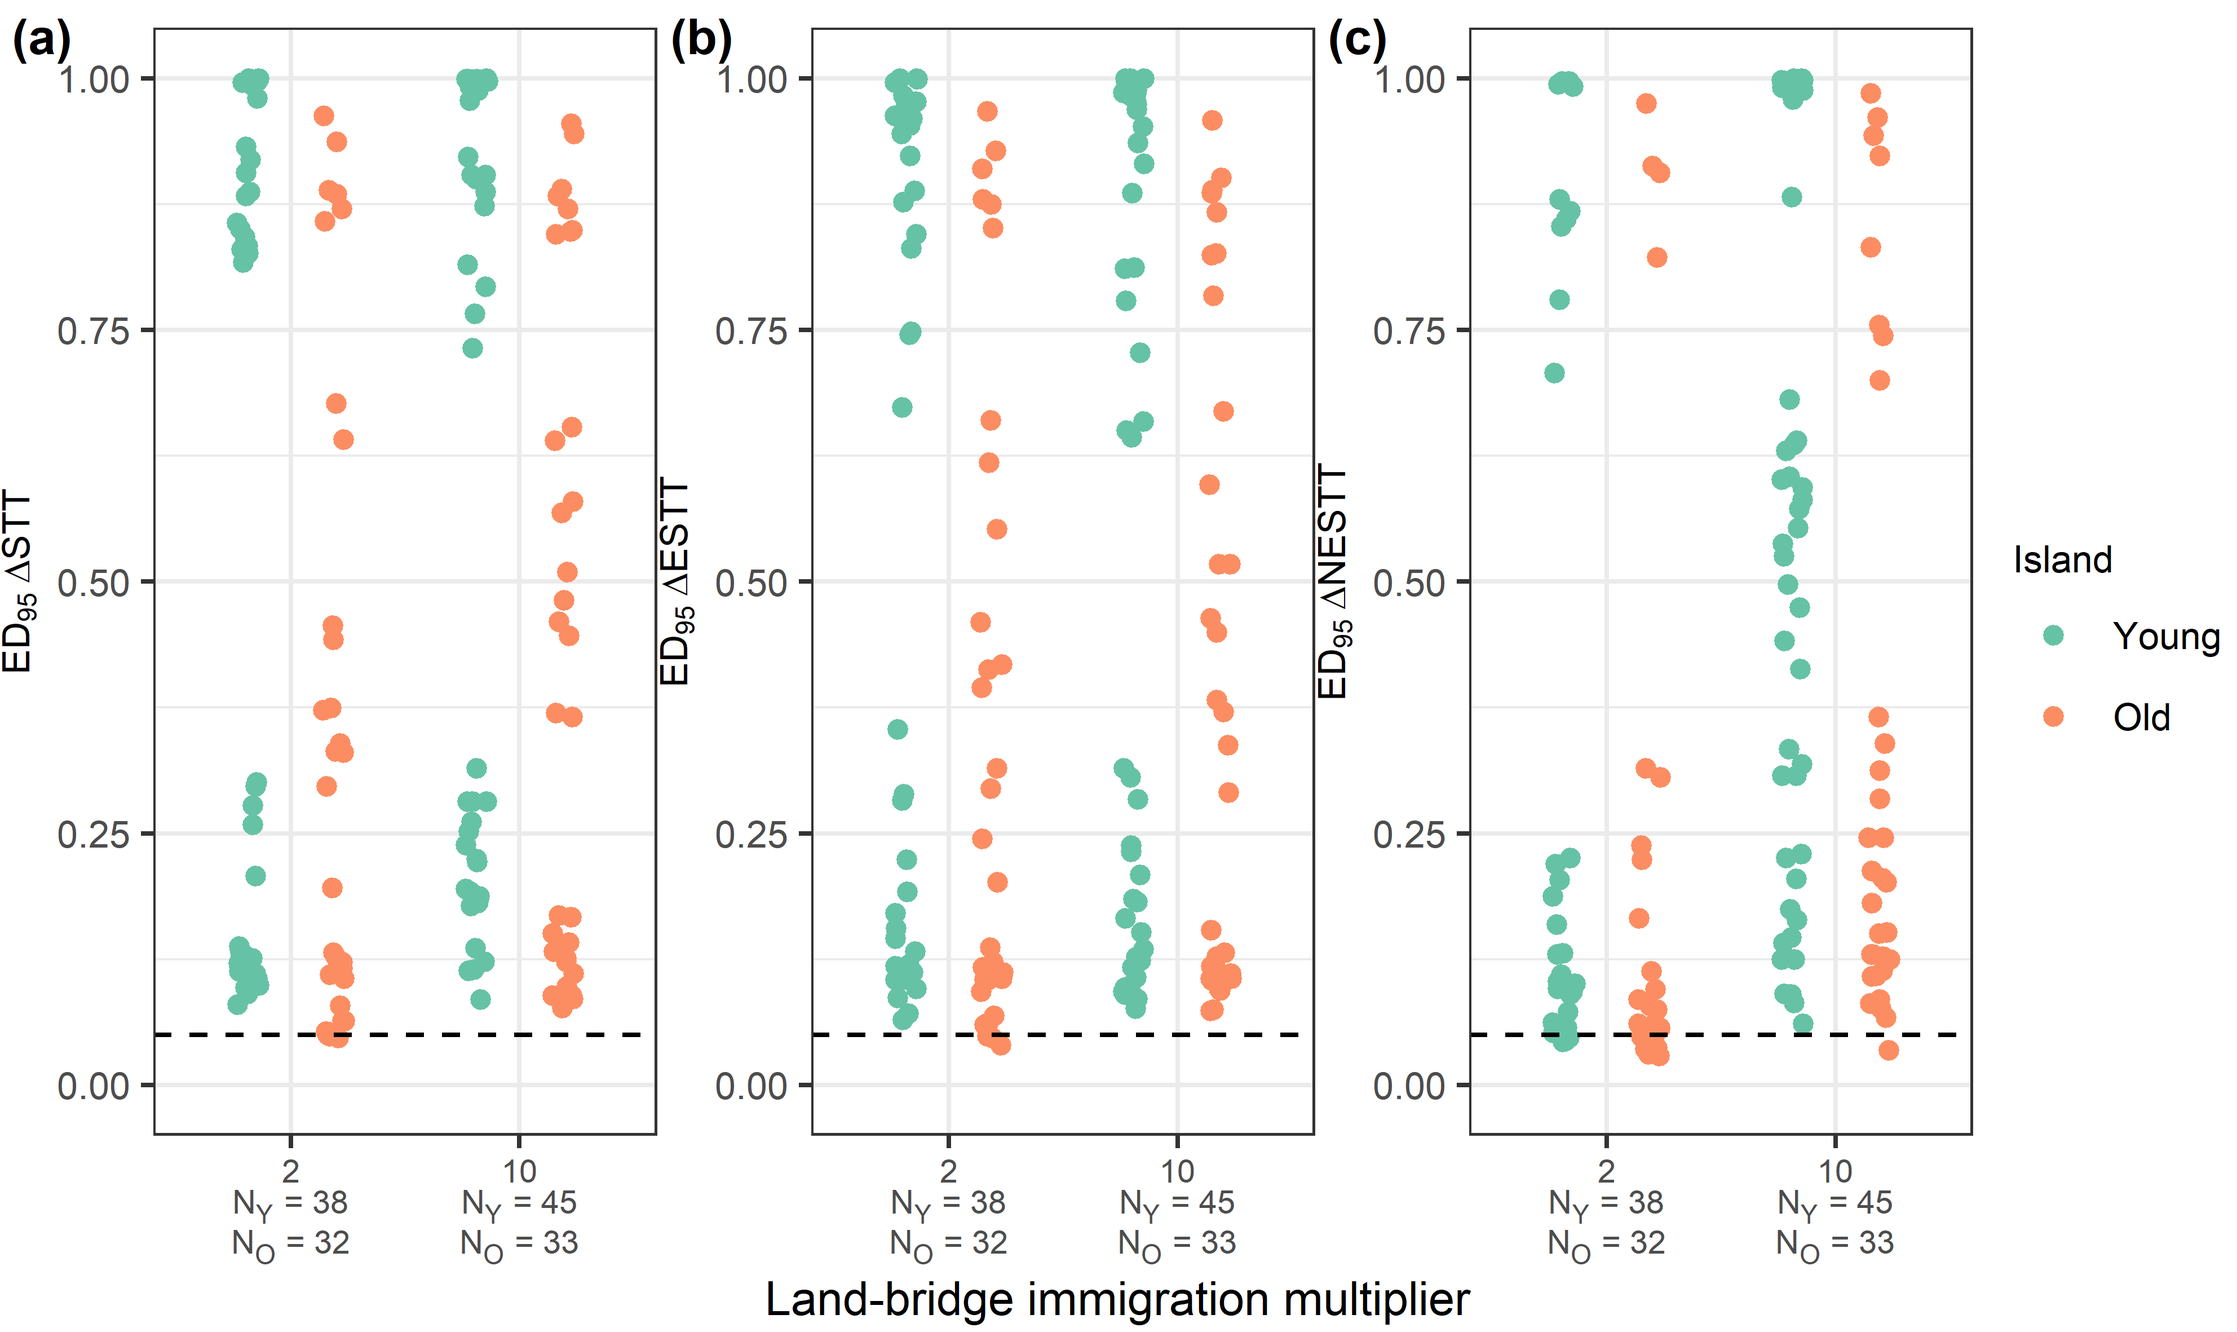
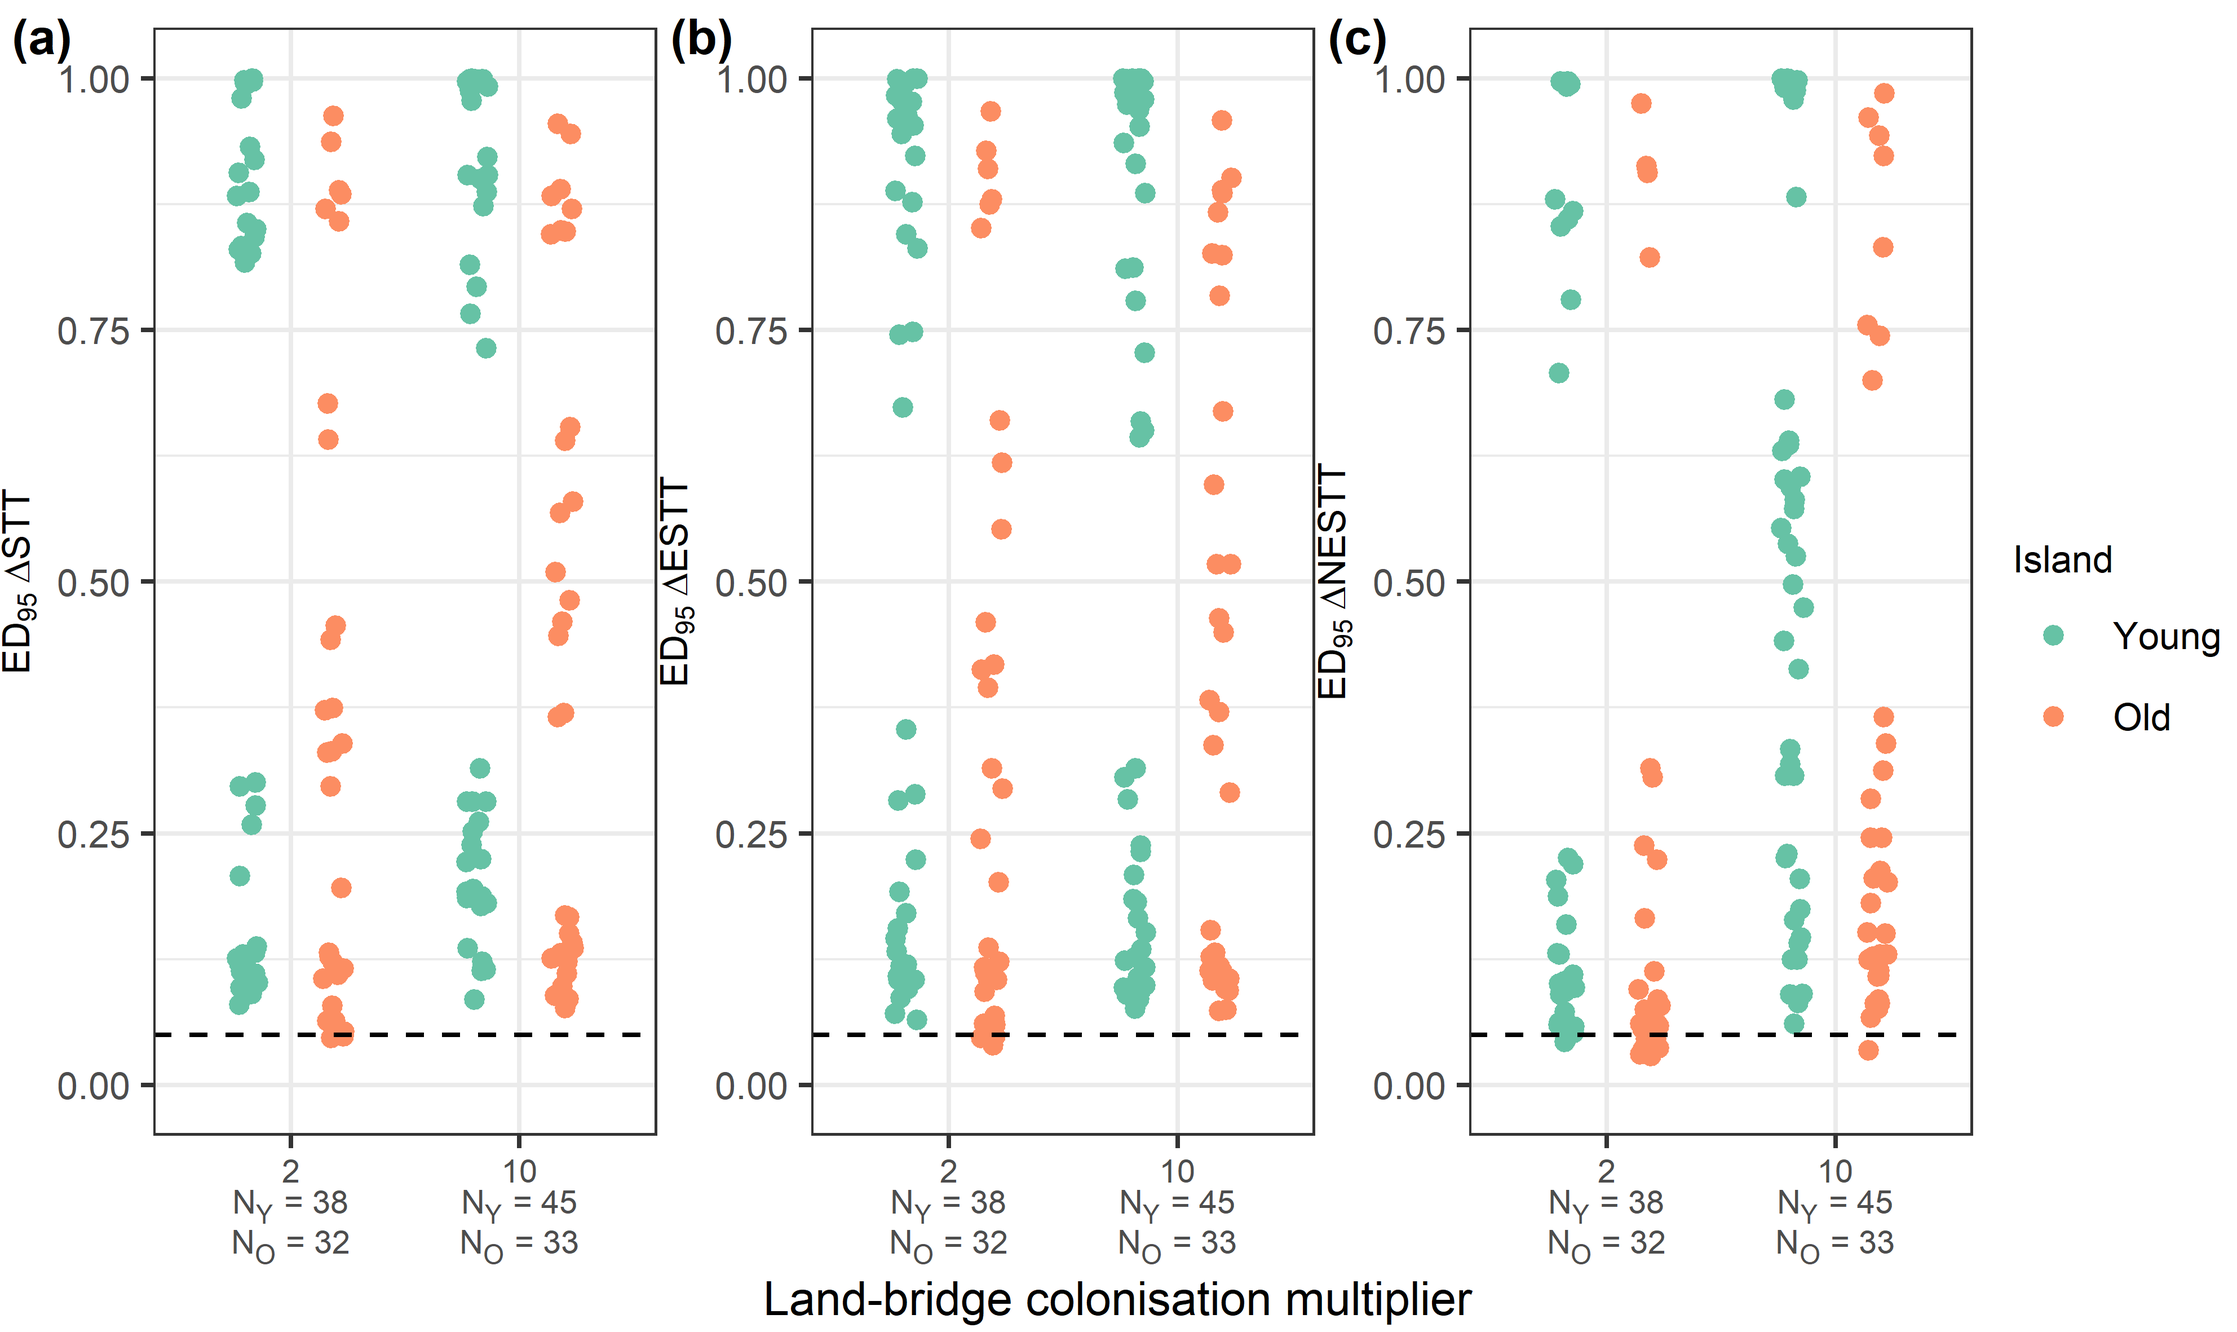
immigration multiplier -> colonisation multiplier

diff --git a/main.tex b/main.tex
@@ -62,7 +62,7 @@ Testing the effect of relevant island characteristics, such as area, on island d
 
 Robustness analyses test the performance of a model when its assumptions are violated. These analyses provide insight into the generality of models by identifying when increased model complexity is unnecessary by testing model performance given departures from the model’s assumptions \citep{weisberg_robustness_2006, grimm_robustness_2016}. In model comparison there is no true model that perfectly represents reality \citep{burnham_model_2004}. Therefore, finding simple models to explain complex dynamics can allow for inference in the presence of small sample sizes and reduce the risk of overfitting. In statistical modelling, it is possible to obtain reliable results when violating the assumptions of a model (e.g. t-test, \cite{boneau_effects_1960}). Testing inference robustness with simulations allows understanding of the type and magnitude of the violation, as long as the simulations are themselves without bias or applied in an unbiased fashion \citep{huelsenbeck_performance_1995, hartmann_sampling_2010}. Robustness analysis is methodologically similar to testing model adequacy, which investigates the absolute performance of a model \citep{bollback_bayesian_2002, pennell_model_2015}. \\
 
-Here, we test the robustness of inference with a single model – DAISIE – to several geodynamic scenarios in which empirical data may differ from the model’s assumptions. We build upon the framework of \citep{valente_effects_2014} to include ontogeny in the DAISIE simulations, and we simulate sea-level change, different types of island formation events (oceanic and continental), and transient land-bridge connection to the mainland. We then apply maximum likelihood estimation (MLE) of DAISIE across this spectrum of geodynamic scenarios. Thus, we investigate to what extent a simple model of island biogeography can produce reliable results when ignoring geodynamics. If the model is found not to be robust, new inference methods that explicitly address geodynamics should be developed.
+Here, we test the robustness of inference with a single model – DAISIE – to several geodynamic scenarios in which empirical data may differ from the model’s assumptions. We build upon the framework of \cite{valente_effects_2014} to include ontogeny in the DAISIE simulations, and we simulate sea-level change, different types of island formation events (oceanic and continental), and transient land-bridge connection to the mainland. We then apply the maximum likelihood estimation (MLE) of DAISIE across this spectrum of geodynamic scenarios. Thus, we investigate to what extent a simple model of island biogeography can produce reliable results when ignoring geodynamics. If the model is found not to be robust, new inference methods that explicitly address geodynamics should be developed.
 
 \clearpage
 
@@ -153,7 +153,7 @@ The robustness pipeline (Fig. \ref{fig:pipeline}) was run until 1,000 replicates
 
 \subsection*{Geodynamic oceanic islands}
 
-Oceanic islands with ontogeny, sea-level fluctuations, or both cause minimal error when reconstructing total species, endemic species, and non-endemic species through time based on parameters inferred with the non-geodynamic DAISIE inference model, (Fig. \ref{fig:scenario} \& \ref{fig:oceanic_hyperparameters_spec_nltt}, Fig. \ref{fig:oceanic_hyperparameters_endemic_nltt} \& \ref{fig:oceanic_hyperparamters_nonendemic_nltt}). The error is controlled by the strength of the effect of island area on cladogenesis and extinction rates (Fig. \ref{fig:oceanic_hyperparameters_spec_nltt} \& Fig. \ref{fig:oceanic_hyperparameters_endemic_nltt} \& \ref{fig:oceanic_hyperparamters_nonendemic_nltt}). The number of species and island colonising clades at present are both remarkably well predicted (Fig. \ref{fig:scenario}f \& \ref{fig:scenario}g). In other words, DAISIE inference performs well when applied to oceanic islands with geodynamic area. Hyperparameters (\textit{x} and \textit{d}) controlling the effect size of area change determined the error made on $\Delta$STT and $\Delta$ESTT for oceanic ontogeny (without sea-level) with high values of \textit{d} (strong effect of area on cladogenesis) causing the largest error, especially for the old island (Fig. \ref{fig:oceanic_hyperparameters_spec_nltt}a, Fig. \ref{fig:oceanic_hyperparameters_endemic_nltt}a \& \ref{fig:oceanic_hyperparameters_endemic_nltt}c). For sea-level change on its own, the error in $\Delta$STT and $\Delta$ESTT was around the null expectation (0.05) for all hyperparameters for both island ages (Fig. \ref{fig:oceanic_hyperparameters_spec_nltt}b \& Fig. \ref{fig:oceanic_hyperparameters_endemic_nltt}b). In the case of ontogeny and sea-level operating together, inference with the non-geodynamic DAISIE model showed higher error in $\Delta$STT compared to $\Delta$ESTT and $\Delta$NESTT (Fig. \ref{fig:oceanic_hyperparameters_spec_nltt}). When reconstructing non-endemics through time, oceanic island ontogeny and sea-level fluctuations, separately, cause minimal error on DAISIE inference, which is not strongly affected when altering the effect of area on cladogenesis (\textit{d}) or extinction (\textit{x}) (Fig. \ref{fig:oceanic_hyperparamters_nonendemic_nltt}a \& \ref{fig:oceanic_hyperparamters_nonendemic_nltt}b). Ontogeny and sea-level operating together produce somewhat higher error in $\Delta$NESTT (Fig. \ref{fig:oceanic_hyperparamters_nonendemic_nltt}c). The $\Delta$STT, $\Delta$ESTT, and $\Delta$NSTT have equal error at both island gradients for sea-level (Fig. \ref{fig:oceanic_sea_level_gradient_nltt}) and ontogeny plus sea-level (Fig. \ref{fig:oceanic_gradient_ontogeny_sea_level_nltt}). \\
+Oceanic islands with ontogeny, sea-level fluctuations, or both cause minimal error when reconstructing total species, endemic species, and non-endemic species through time based on parameters inferred with the non-geodynamic DAISIE inference model, (Fig. \ref{fig:scenario} \& \ref{fig:oceanic_hyperparameters_spec_nltt}, Fig. \ref{fig:oceanic_hyperparameters_endemic_nltt} \& \ref{fig:oceanic_hyperparamters_nonendemic_nltt}). The error is controlled by the strength of the effect of island area on cladogenesis and extinction rates (Fig. \ref{fig:oceanic_hyperparameters_spec_nltt} \& Fig. \ref{fig:oceanic_hyperparameters_endemic_nltt} \& \ref{fig:oceanic_hyperparamters_nonendemic_nltt}). The number of species and island colonising clades at present are both remarkably well predicted (Fig. \ref{fig:scenario}g \& \ref{fig:scenario}i). In other words, DAISIE inference performs well when applied to oceanic islands with geodynamic area. Hyperparameters (\textit{x} and \textit{d}) controlling the effect size of area change determined the error made on $\Delta$STT and $\Delta$ESTT for oceanic ontogeny (without sea-level) with high values of \textit{d} (strong effect of area on cladogenesis) causing the largest error, especially for the old island (Fig. \ref{fig:oceanic_hyperparameters_spec_nltt}a, Fig. \ref{fig:oceanic_hyperparameters_endemic_nltt}a \& \ref{fig:oceanic_hyperparameters_endemic_nltt}c). For sea-level change on its own, the error in $\Delta$STT and $\Delta$ESTT was around the null expectation (0.05) for all hyperparameters for both island ages (Fig. \ref{fig:oceanic_hyperparameters_spec_nltt}b \& Fig. \ref{fig:oceanic_hyperparameters_endemic_nltt}b). In the case of ontogeny and sea-level operating together, inference with the non-geodynamic DAISIE model showed higher error in $\Delta$STT compared to $\Delta$ESTT and $\Delta$NESTT (Fig. \ref{fig:oceanic_hyperparameters_spec_nltt}). When reconstructing non-endemics through time, oceanic island ontogeny and sea-level fluctuations, separately, cause minimal error on DAISIE inference, which is not strongly affected when altering the effect of area on cladogenesis (\textit{d}) or extinction (\textit{x}) (Fig. \ref{fig:oceanic_hyperparamters_nonendemic_nltt}a \& \ref{fig:oceanic_hyperparamters_nonendemic_nltt}b). Ontogeny and sea-level operating together produce somewhat higher error in $\Delta$NESTT (Fig. \ref{fig:oceanic_hyperparamters_nonendemic_nltt}c). The $\Delta$STT, $\Delta$ESTT, and $\Delta$NSTT have equal error at both island gradients for sea-level (Fig. \ref{fig:oceanic_sea_level_gradient_nltt}) and ontogeny plus sea-level (Fig. \ref{fig:oceanic_gradient_ontogeny_sea_level_nltt}). \\
 
 The number of species and number of colonists at the present for all oceanic area-dependent scenarios showed negligible error, with all results clustering around the expected baseline error from the null prediction (i.e. no additional error, ED\textsubscript{95} $\approx$ 0.05) (Fig. \ref{fig:scenario}d \& \ref{fig:scenario}e). Changes in hyperparameter values (\textit{d} and \textit{x}) and island gradient (for the scenarios that include sea-level) did not considerably alter the error for the number of species and colonists (Fig. \ref{fig:oceanic_hyperparameters_num_spec}-\ref{fig:oceanic_gradient_ontogeny_sea_level_num_spec}).
 
@@ -197,7 +197,7 @@ For continental islands, when species are initially on the island, the present-d
 \begin{figure}
     \centering
     \includegraphics[width=\textwidth]{nonoceanic_lb_immigration multiplier_spec_nltt.png}
-    \caption{Strip charts showing the influence of different land-bridge immigration multipliers (i.e., the factor by which the colonisation rate increases when the land-bridge is present). Each point represents the ED\textsubscript{95} for a single parameter set. All plots have a dashed line at 0.05 which is the null expectation of the ED\textsubscript{95}. Metrics plotted are: (a) $\Delta$STT ED\textsubscript{95} statistic, (b) $\Delta$ESTT ED\textsubscript{95} statistic, and (c) $\Delta$NESTT ED\textsubscript{95} statistic. The sample size for each strip is shown for young islands (N\textsubscript{Y}) and old islands (N\textsubscript{O}).}
+    \caption{Strip charts showing the influence of different land-bridge colonisation multipliers (i.e., the factor by which the colonisation rate increases when the land-bridge is present). Each point represents the ED\textsubscript{95} for a single parameter set. All plots have a dashed line at 0.05 which is the null expectation of the ED\textsubscript{95}. Metrics plotted are: (a) $\Delta$STT ED\textsubscript{95} statistic, (b) $\Delta$ESTT ED\textsubscript{95} statistic, and (c) $\Delta$NESTT ED\textsubscript{95} statistic. The sample size for each strip is shown for young islands (N\textsubscript{Y}) and old islands (N\textsubscript{O}).}
     \label{fig:nonoceanic_lb_immigration multiplier_spec_nltt}
 \end{figure}
 

diff --git a/supmat.tex b/supmat.tex
@@ -171,7 +171,7 @@ Therefore, the relationship between surface area of the cone and the base of the
         \hline
         Carrying capacity & 0.001, 0.01, $\infty$ \\
         \hline
-        Immigration & 0.03363, 0.06726 \\
+        Colonisation & 0.03363, 0.06726 \\
         \hline
         Anagenesis & 0.0295, 0.059 \\
         \hline
@@ -208,7 +208,7 @@ Therefore, the relationship between surface area of the cone and the base of the
         \hline
         Carrying capacity & 0.001, 0.01, $\infty$ \\
         \hline
-        Immigration & 0.03363, 0.06726 \\
+        Colonisation & 0.03363, 0.06726 \\
         \hline
         Anagenesis & 0.0295, 0.059 \\
         \hline
@@ -245,7 +245,7 @@ Therefore, the relationship between surface area of the cone and the base of the
         \hline
         Carrying capacity & 0.001, 0.01, $\infty$ \\
         \hline
-        Immigration & 0.03363, 0.06726 \\
+        Colonisation & 0.03363, 0.06726 \\
         \hline
         Anagenesis & 0.0295, 0.059 \\
         \hline
@@ -282,7 +282,7 @@ Therefore, the relationship between surface area of the cone and the base of the
         \hline
         Carrying capacity & 0.001, 0.01, $\infty$ \\
         \hline
-        Immigration & 0.03363, 0.06726 \\
+        Colonisation & 0.03363, 0.06726 \\
         \hline
         Anagenesis & 0.0295, 0.059 \\
         \hline
@@ -319,7 +319,7 @@ Therefore, the relationship between surface area of the cone and the base of the
         \hline
         Carrying capacity & 0.001, 0.01, $\infty$ \\
         \hline
-        Immigration & 0.03363, 0.06726 \\
+        Colonisation & 0.03363, 0.06726 \\
         \hline
         Anagenesis & 0.0295, 0.059 \\
         \hline
@@ -362,7 +362,7 @@ Therefore, the relationship between surface area of the cone and the base of the
         \hline
         Carrying capacity & 0.001, 0.01, $\infty$ \\
         \hline
-        Immigration & 0.03363, 0.06726 \\
+        Colonisation & 0.03363, 0.06726 \\
         \hline
         Anagenesis & 0.0295, 0.059 \\
         \hline
@@ -405,7 +405,7 @@ Therefore, the relationship between surface area of the cone and the base of the
         \hline
         Carrying capacity & 10, 40, $\infty$ \\
         \hline
-        Immigration & 0.01, 0.05 \\
+        Colonisation & 0.01, 0.05 \\
         \hline
         Anagenesis & 1.0, 2.0 \\
         \hline
@@ -418,7 +418,7 @@ Therefore, the relationship between surface area of the cone and the base of the
 
 \begin{table}[ht]
     \centering
-    \caption{Parameter space for continental land-bridge young island. Parameter space consists of each combination of the model parameters. Immigration rate 2 (i.e. when the land-bridge is present) is immigration rate 1 ($\gamma_1$), multipled by an immigration rate multiplier, which in our case is two and ten.}
+    \caption{Parameter space for continental land-bridge young island. Parameter space consists of each combination of the model parameters. Colonisation rate 2 (i.e. when the land-bridge is present) is colonisation rate 1 ($\gamma_1$), multipled by a colonisation rate multiplier, which in our case is two and ten.}
     \begin{tabular}{ c | c }
         \multicolumn{2}{c}{\textbf{Continental land-bridge young island}} \\
         \textbf{Model parameters} & \textbf{Parameter value} \\ 
@@ -434,7 +434,7 @@ Therefore, the relationship between surface area of the cone and the base of the
         \hline
         Carrying capacity 1 & 10, $\infty$ \\
         \hline
-        Immigration 1 & 0.01, 0.05 \\
+        Colonisation 1 & 0.01, 0.05 \\
         \hline
         Anagenesis 1 & 1.0 \\
         \hline
@@ -448,7 +448,7 @@ Therefore, the relationship between surface area of the cone and the base of the
         \hline
         Carrying capacity 2 & 10, $\infty$ \\
         \hline
-        Immigration 2 & $\gamma_1$ * 2, $\gamma_1$ * 10 \\ 
+        Colonisation 2 & $\gamma_1$ * 2, $\gamma_1$ * 10 \\ 
         \hline 
         Anagenesis 2 & 0 \\
         \hline
@@ -459,7 +459,7 @@ Therefore, the relationship between surface area of the cone and the base of the
 
 \begin{table}[ht]
     \centering
-    \caption{Parameter space for continental land-bridge old island. Parameter space consists of each combination of the model parameters. Immigration rate 2 (i.e. when the land-bridge is present) is immigration rate 1 ($\gamma_1$), multipled by an immigration rate multiplier, which in our case is two and ten.}
+    \caption{Parameter space for continental land-bridge old island. Parameter space consists of each combination of the model parameters. Colonisation rate 2 (i.e. when the land-bridge is present) is colonisation rate 1 ($\gamma_1$), multipled by a colonisation rate multiplier, which in our case is two and ten.}
     \begin{tabular}{ c | c }
         \multicolumn{2}{c}{\textbf{Continental land-bridge old island}} \\
         \textbf{Model parameters} & \textbf{Parameter value} \\ 
@@ -475,7 +475,7 @@ Therefore, the relationship between surface area of the cone and the base of the
         \hline
         Carrying capacity 1 & 10, $\infty$ \\
         \hline
-        Immigration 1 & 0.01, 0.05 \\
+        Colonisation 1 & 0.01, 0.05 \\
         \hline
         Anagenesis 1 & 1.0 \\
         \hline
@@ -489,7 +489,7 @@ Therefore, the relationship between surface area of the cone and the base of the
         \hline
         Carrying capacity 2 & 10, $\infty$ \\
         \hline
-        Immigration 2 & $\gamma_1$ * 2, $\gamma_1$ * 10 \\ 
+        Colonisation 2 & $\gamma_1$ * 2, $\gamma_1$ * 10 \\ 
         \hline 
         Anagenesis 2 & 0 \\
         \hline
